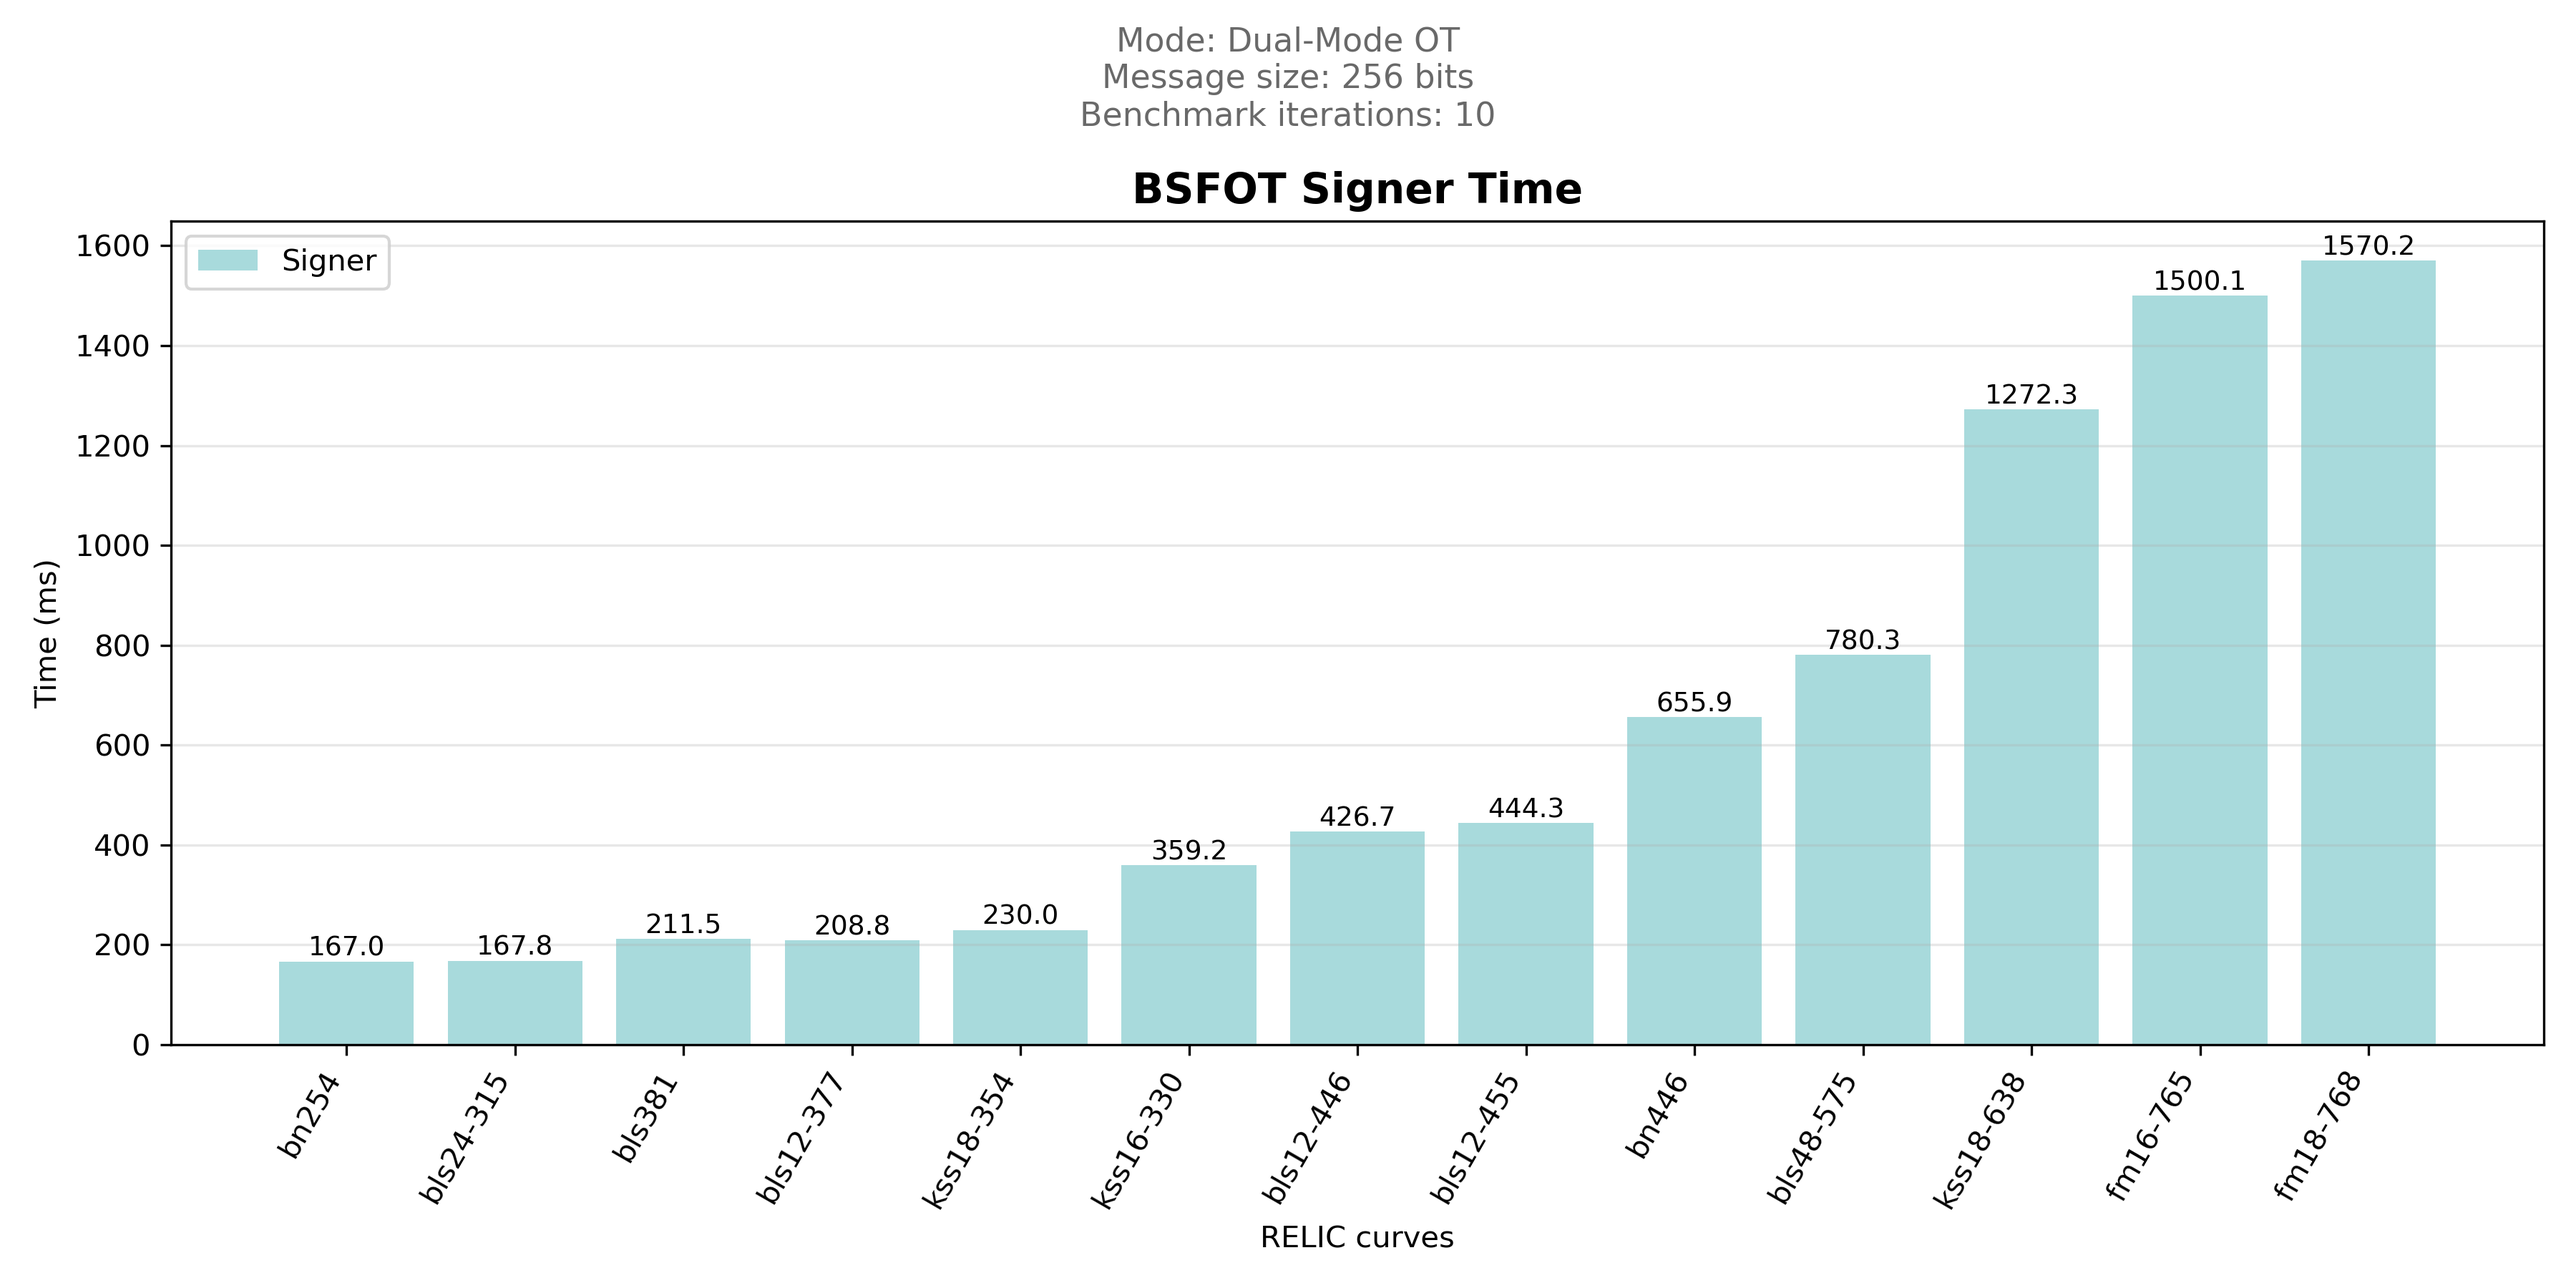
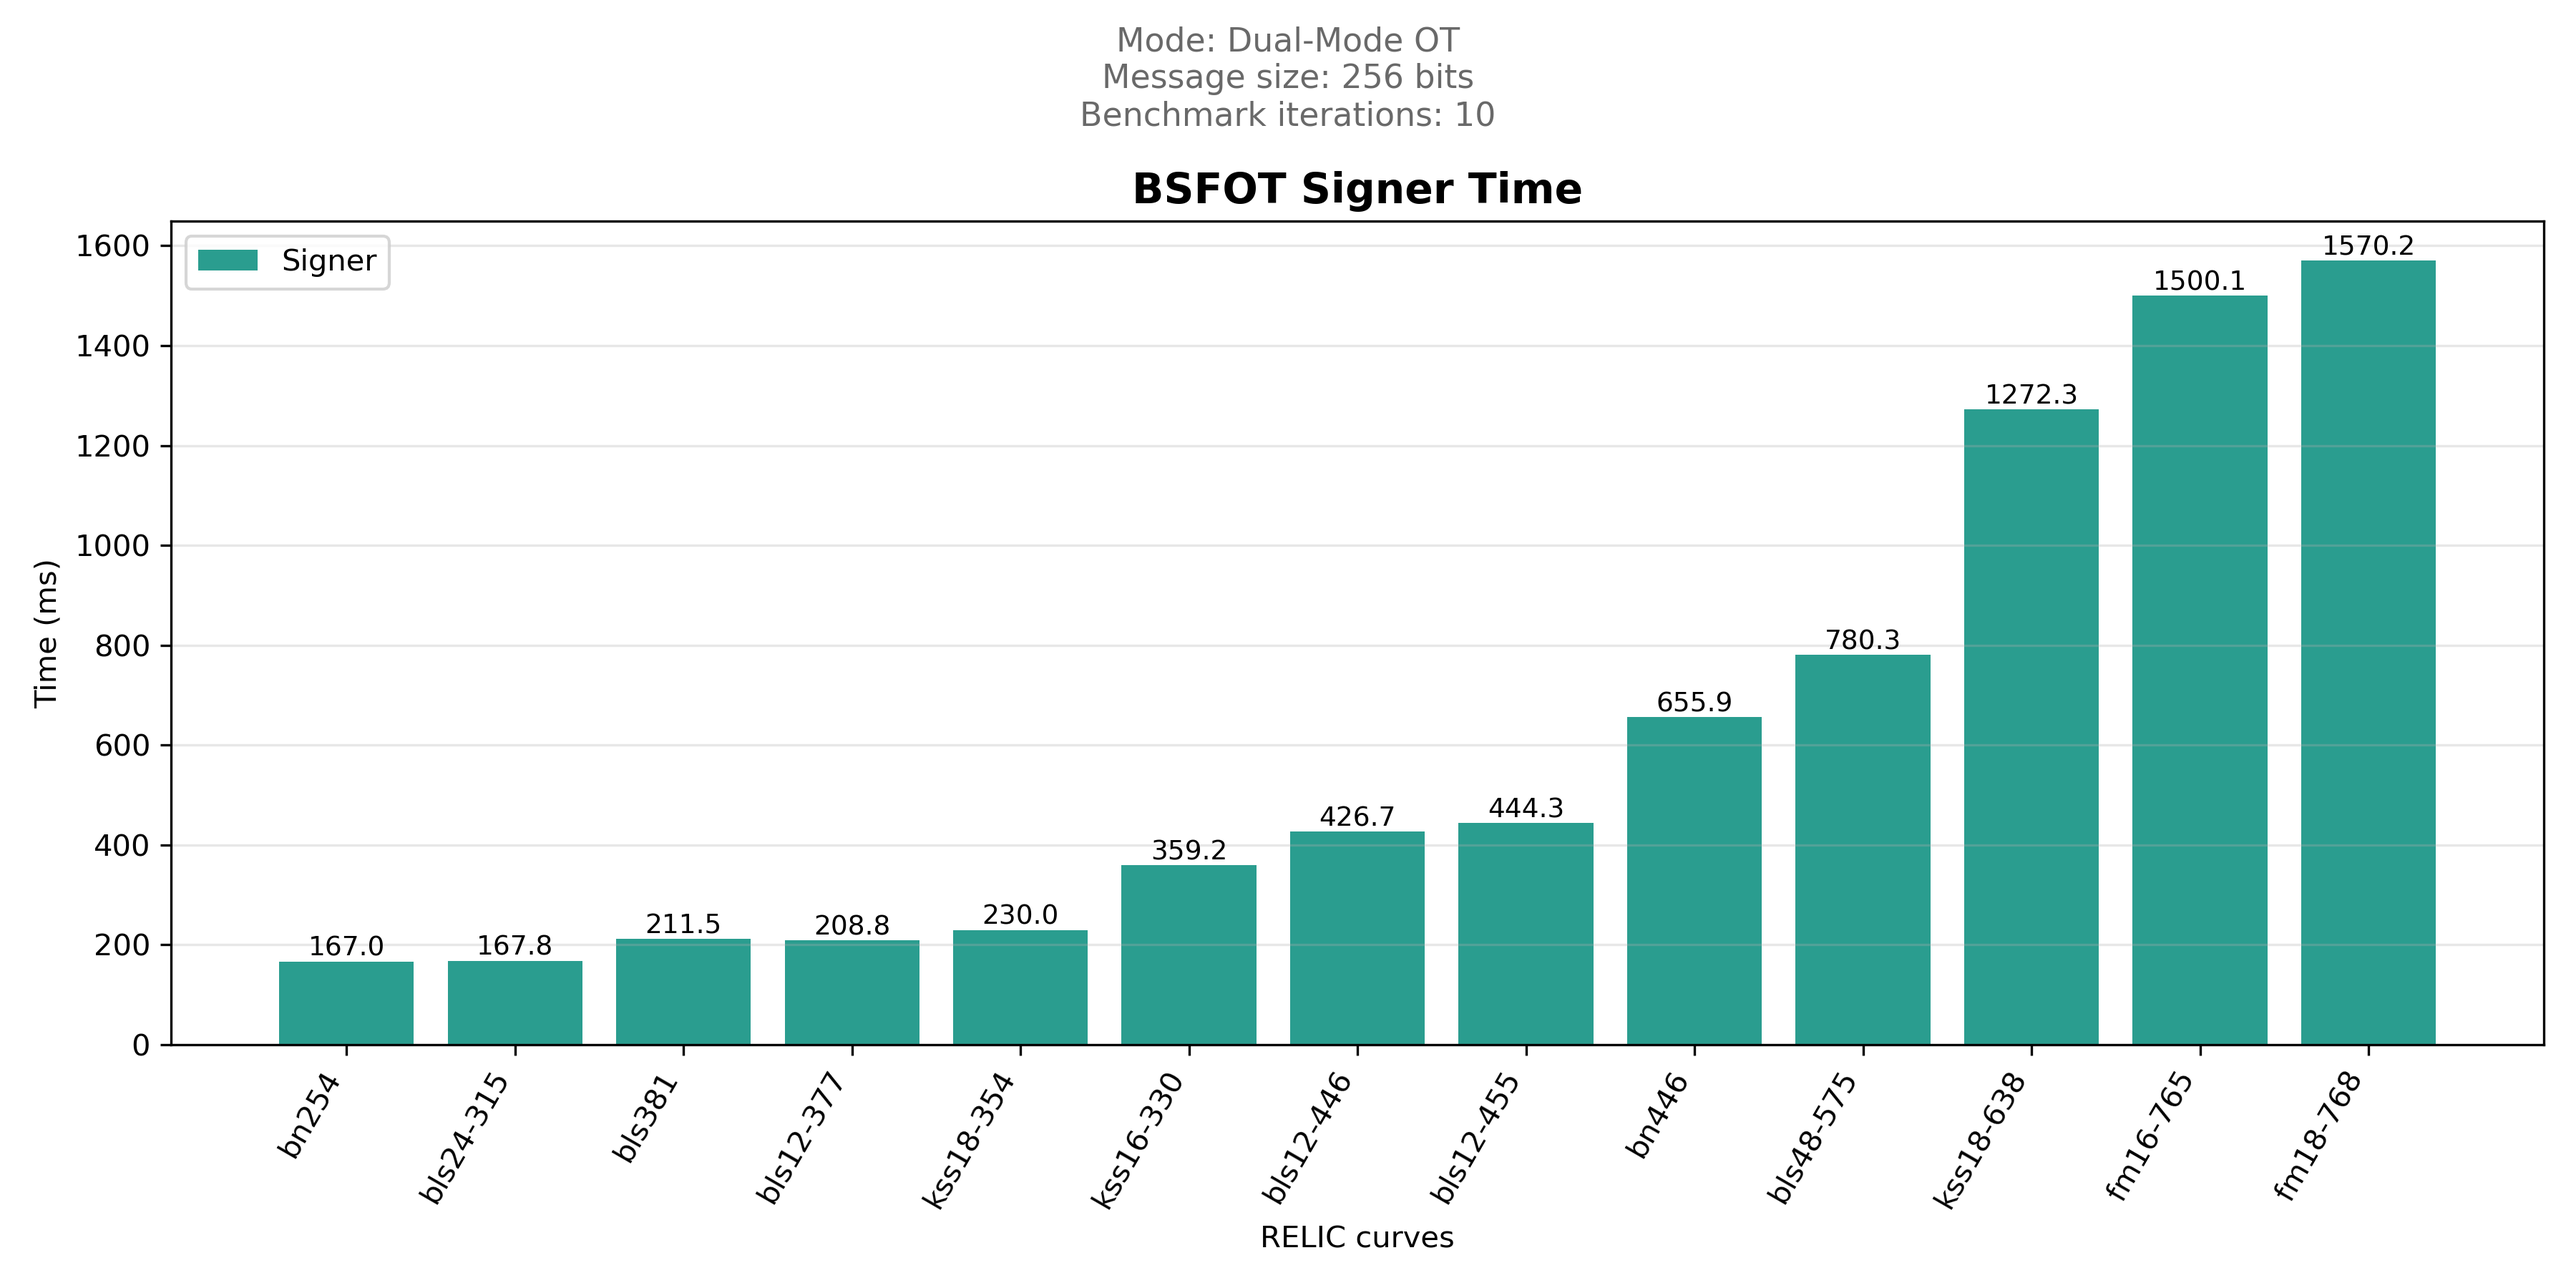
test display

Changed region(s): [[0.0933, 0.1867, 0.9644, 0.8089], [0.0622, 0.1867, 0.1244, 0.2178]]

diff --git a/bsfot/display.py b/bsfot/display.py
@@ -290,11 +290,11 @@ def main():
 
     plot_breakdown(results)
 
-    for m in METRICS:
+    for m,color in zip(METRICS, ["#A8DADC", "#457B9D", "#1D3557", "#2A9D8F", "#6D597A", "#B8C0FF"]):
         plot_single_metric(
             results,
             m,
-            "#A8DADC",
+            color,
             f"{m.lower()}.png",
             f"BSFOT {m} Time"
         )
